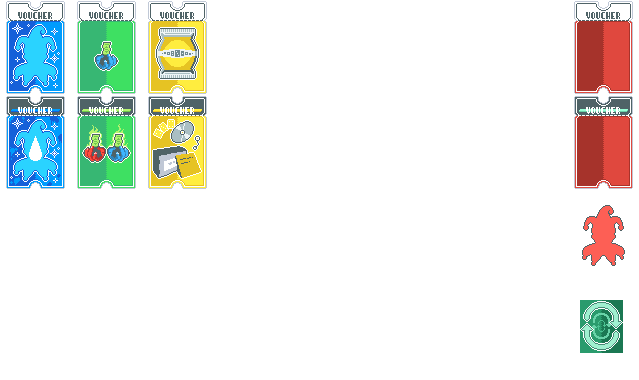
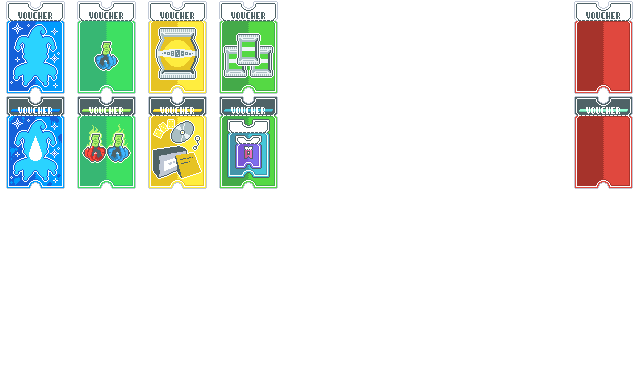
Add Serendipity & Recursion vouchers

Changed region(s): [[0.3271, 0.0, 0.446, 0.5211], [0.892, 0.7816, 0.9812, 0.9263], [0.892, 0.5211, 0.9812, 0.6947]]

diff --git a/web/addjokers.js b/web/addjokers.js
@@ -1280,6 +1280,22 @@ let shop_items = [
     image_url: "img/v/collectors_edition.png",
     rarity: "Voucher"
   },
+  {
+    name: "Serendipity",
+    text: [
+      "{C:attention}+1{} booster pack available in shop",
+    ],
+    image_url: "img/v/serendipity.png",
+    rarity: "Voucher"
+  },
+  {
+    name: "Recursion",
+    text: [
+      "{C:attention}+1{} voucher available in shop",
+    ],
+    image_url: "img/v/recursion.png",
+    rarity: "Voucher"
+  },
 ]
 
 let cols = {
